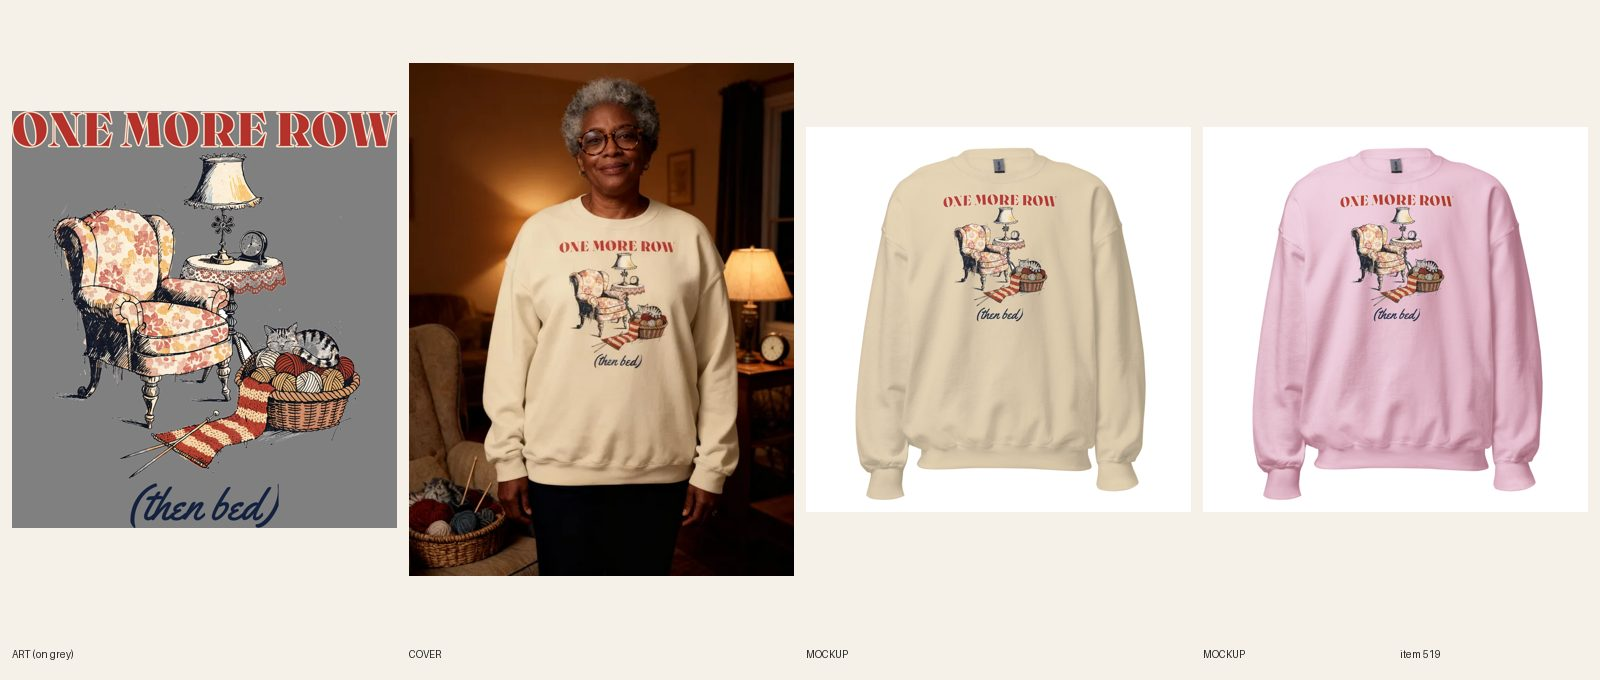
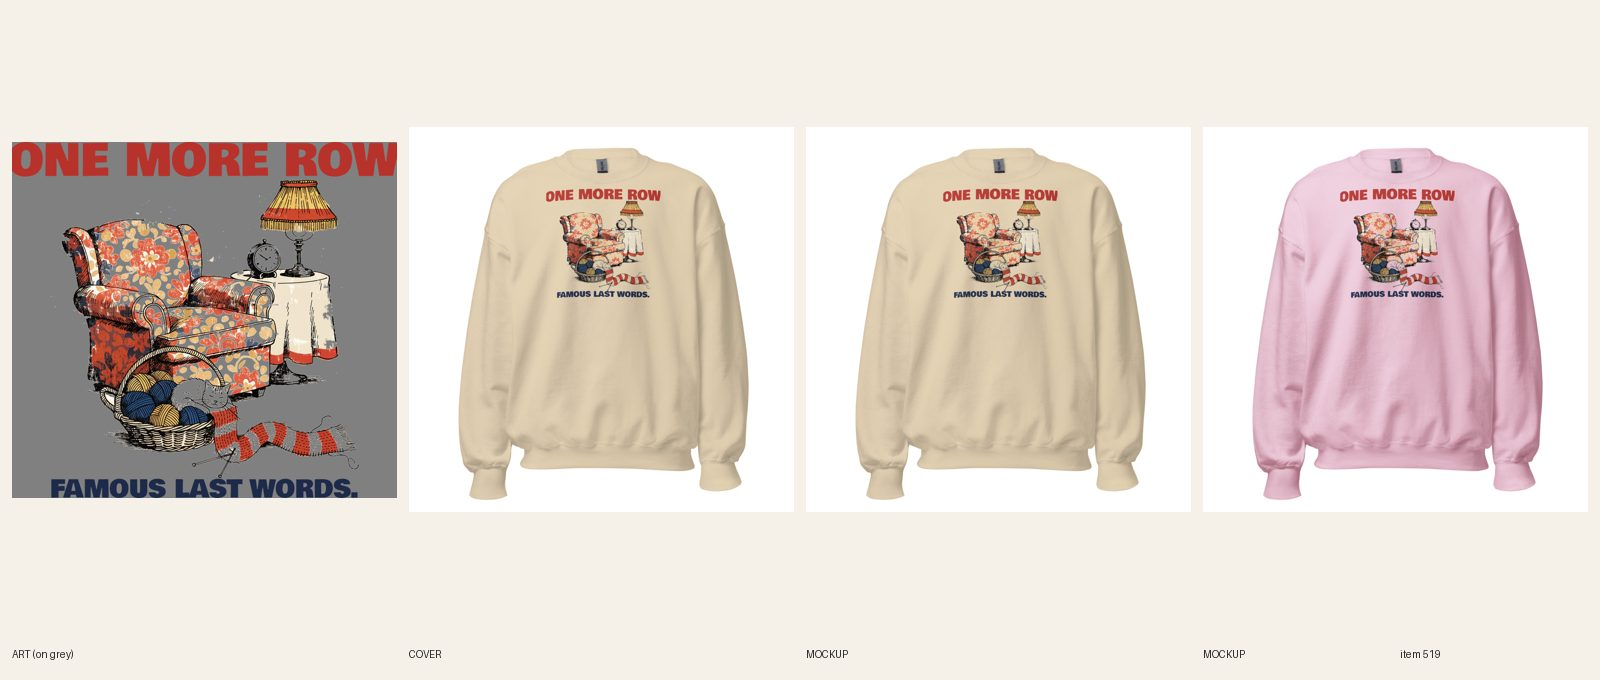
[B] review 519 One More Row crewneck (line + type redo)

Changed region(s): [[0.0, 0.0926, 0.5, 0.8647], [0.8125, 0.2779, 0.9062, 0.4632], [0.5938, 0.2779, 0.6562, 0.4632]]

diff --git a/docs/pipeline/519-knitting-crew-one-more-row.md b/docs/pipeline/519-knitting-crew-one-more-row.md
@@ -1,4 +1,4 @@
-status: REDO
+status: REVIEW
 lane: B
 type: new
 id: 519
@@ -31,3 +31,4 @@ kd: 19
 - 2026-10-18 01:58 UTC builder [B]: full build. Art: 1 Recraft call, kept (armchair, lamp, clock, yarn basket with sleeping tabby, half-knit striped scarf on needles; the clock hands are not readable, so the copy does not name a time). ONE MORE ROW (Fraunces 900, faded red, cream keyline, wider than the art) above and (then bed) (Yellowtail navy, about 60% of the art width) below via compose-print. Colors Sand + Light Pink, NOT Navy: the black linework and navy script sink on Navy (brief's logged fallback). Print 11.5 x 12.5 in (ratio 1.08), FW 1650 TOP 75. DRAFT gid 15364385767728, category aa-1-13-14, 12 variants $34.99, compareAtPrice null, tags per brief, keyword knitter sweatshirt 4,400/KD19 in line one and meta, "knitting sweatshirt" once in an FAQ (map entry already present), FAQ 6 x 40-60 words incl. Dec 8. Printful file 1088614820, sync 12/12; mockups Sand + Light Pink + back attached and linked, alts per R7.8. Phone-size read: both lines legible on Light Pink. Cover: registry 853, 1 fal photo, both lines read, no hair/hand/needles over the print, no composite; alt starts "Woman". Audit-local PASS, astro build OK. fal $0.10.
 - 2026-10-18 02:45 UTC director: LIVE (ACTIVE + Online Store/Headless/Google & YouTube, audit PASS 0 warn).
 - 2026-10-18 17:22 UTC director: QUALITY RESET grade C (new line + type), REDO. The product stays ACTIVE (same handle, URL, title keyword). 1. Line (R3.12, quality-reset 'Lines'): "ONE MORE ROW / (then bed)": Knitter cliche plus mild aside; thin navy script second line. Write 5 candidates, keep the one a stranger laughs at in 3 seconds without backstory; kill lines that only describe the picture; if none of the 5 is funny, PARK it. 2. Quality reset type bar (docs/backlog/quality-reset.md, 'The new bar'): headline at least 90% of the art width, heavy, colors pulled from the art; second line at least 45% of the headline's height, never a thin script on a dark or mid garment; use the lettering as a shape (arch, stacked lockup, words breaking into the art), not a plain bar above and a script line below; no font used on more than 1 in 6 of the last 30 designs. 3. Keep the art if it carries the new line, else one new illustration (R4/R5). New print means a new cover per R6.10, copy line one rewritten for the new joke (R8.3), and a fresh review sheet (R7.7). While quality-reset.md says PAUSED, only lane A builds, and only the samples step 2 names.
+- 2026-10-20 07:00 UTC builder [B]: REDO 519 (C grade, line + type) done in place (stays ACTIVE, handle unchanged; title now "Women's Knitting – One More Row, Famous Last Words Crewneck Sweatshirt"). 5 candidates: "ONE MORE ROW / FAMOUS LAST WORDS."; "Cat On The Yarn. I'm Staying."; "Knit Happens" (cut: a swear pun); "Purl Of Great Price" (cut: needs explaining); "Casting On Again". Kept ONE MORE ROW / FAMOUS LAST WORDS. (the knitter's famous lie finished with a punchline; the 2 AM clock and sleeping cat carry it). Source art not in repo: one new Recraft call ($0.04) from the brief's prompt, no words. Bowlby One at full print width (headline 127% of art width), second line 56% of headline height at 100% of art width (first mockup read small, so enlarged and re-synced). Both colors are light blanks: ONE dark-ink file (headline faded red, second line navy; light file logged: Sand 1090163249 / Light Pink 1090163268, same print). FW 1650 TOP 0 (crewneck, 10 in tall). 12/12 synced on the right file per color, back logo kept. Fronts + back replaced in place, alts, title, SEO, copy updated. Phone-size read OK on both. Cover: handle added to retired-covers.json. audit --handle PASS 0 warn. fal $0.04. Sheet docs/review/519.jpg.

diff --git a/docs/intake-log.md b/docs/intake-log.md
@@ -1,4 +1,6 @@
 2026-10-20 04:29 UTC — [D] Director run (RESUMED). LIVE 6 (cap): #477 #481 #501 #558 #579 #632 (approved 02:16 and held; all already ACTIVE on Online Store, Headless, Google & YouTube; audit --handle PASS 0 warn each). Reviewed 20 new redo sheets side by side with 493 and 483: approved and held 15 (#221 #237 #246 #251 #252 #323 #365 #386 #395 #409 #443 #552 #554 #561 #635); REDO 5: #362 #404 #440 (punchline set at 45–60% of the headline's width; new rulebook line under R3.7.8, 4 hits in one run), #366 (SHELLFISH sound-alike pun, R3.1), #388 (empty calendar boxes read as free, R5.3.4). Shopify: 9 approved redos retitled to their printed lines (#221 #237 #246 #251 #252 #323 #552 #554 #561, handles unchanged) and 3 metas trimmed under 155 (#323 #554 #561). Inbox (Sam's Black Friday order): /black-friday/ built and live (200; 8 A-grade doorbusters, 5 FAQs, schema), linked from the sale banner, footer and gift guides; sweatpants audit support + rulebook lines + 5 lane C briefs #711–#715 (builder card: ahead of lane C REDOs, one per run). Telegram: one message to Sam with the page link and two decisions (the Black Friday deal; a 10% set discount). No digest (not due). READY: A 12, B 12, C 12 (+5 sweatpants), E 12. Helper note: `astro check` reports 2 duplicate keys in src/data/covers.ts (mens-pirate-pillaging-is-a-young-mans-game-hoodie line 419, womens-crochet-no-i-wont-make-you-one-hoodie line 564); the build passes, but the later entry silently wins. Held for next runs, in order: #649 #205 #217 #219 #326 #356 #358 #650, then the 15 above, then the 31 add-ons. Lock released.
+RUNNING director since 2026-10-20 04:12 UTC
+2026-10-20 04:34 UTC — [B] Builder run: redid #519 Women's Knitting crewneck (line + type: ONE MORE ROW / FAMOUS LAST WORDS., new armchair art, Bowlby One, Sand + Light Pink dark-ink file, 12/12 synced). REVIEW. fal $0.04.
 2026-10-20 04:22 UTC — [B] Builder run: redid #513 Women's Dachshund crewneck (line + type: SEE YOU / IN APRIL., new quilt-dachshund art, Big Shoulders, Sand + Sport Grey dark-ink file, 12/12 synced). REVIEW. fal $0.04.
 2026-10-20 03:47 UTC — [H] Helper run: audit 607 products, 0 errors, 30 warnings (no scripted ERRORs to fix). Category check: 0 products without a Shopify category. Site check: 3 newest LIVE pages (#618, #578, #548) all 200. Stuck-work check: nothing BUILDING, all locks under 2h. Telegram: no new messages. Announcement bar already on holiday line. Daily summary not due (before 12:00 UTC). Lock released.
 2026-10-20 04:15 UTC — [E] Builder run: redid #459 Men's Mountain Bike heavyweight hoodie (line + type: 40 MINUTES UP. 40 SECONDS DOWN., new downhill rider art, Storm Blue + Sandstone files, 14/14 synced, copy updated, plain product shot). REVIEW. fal $0.04.
